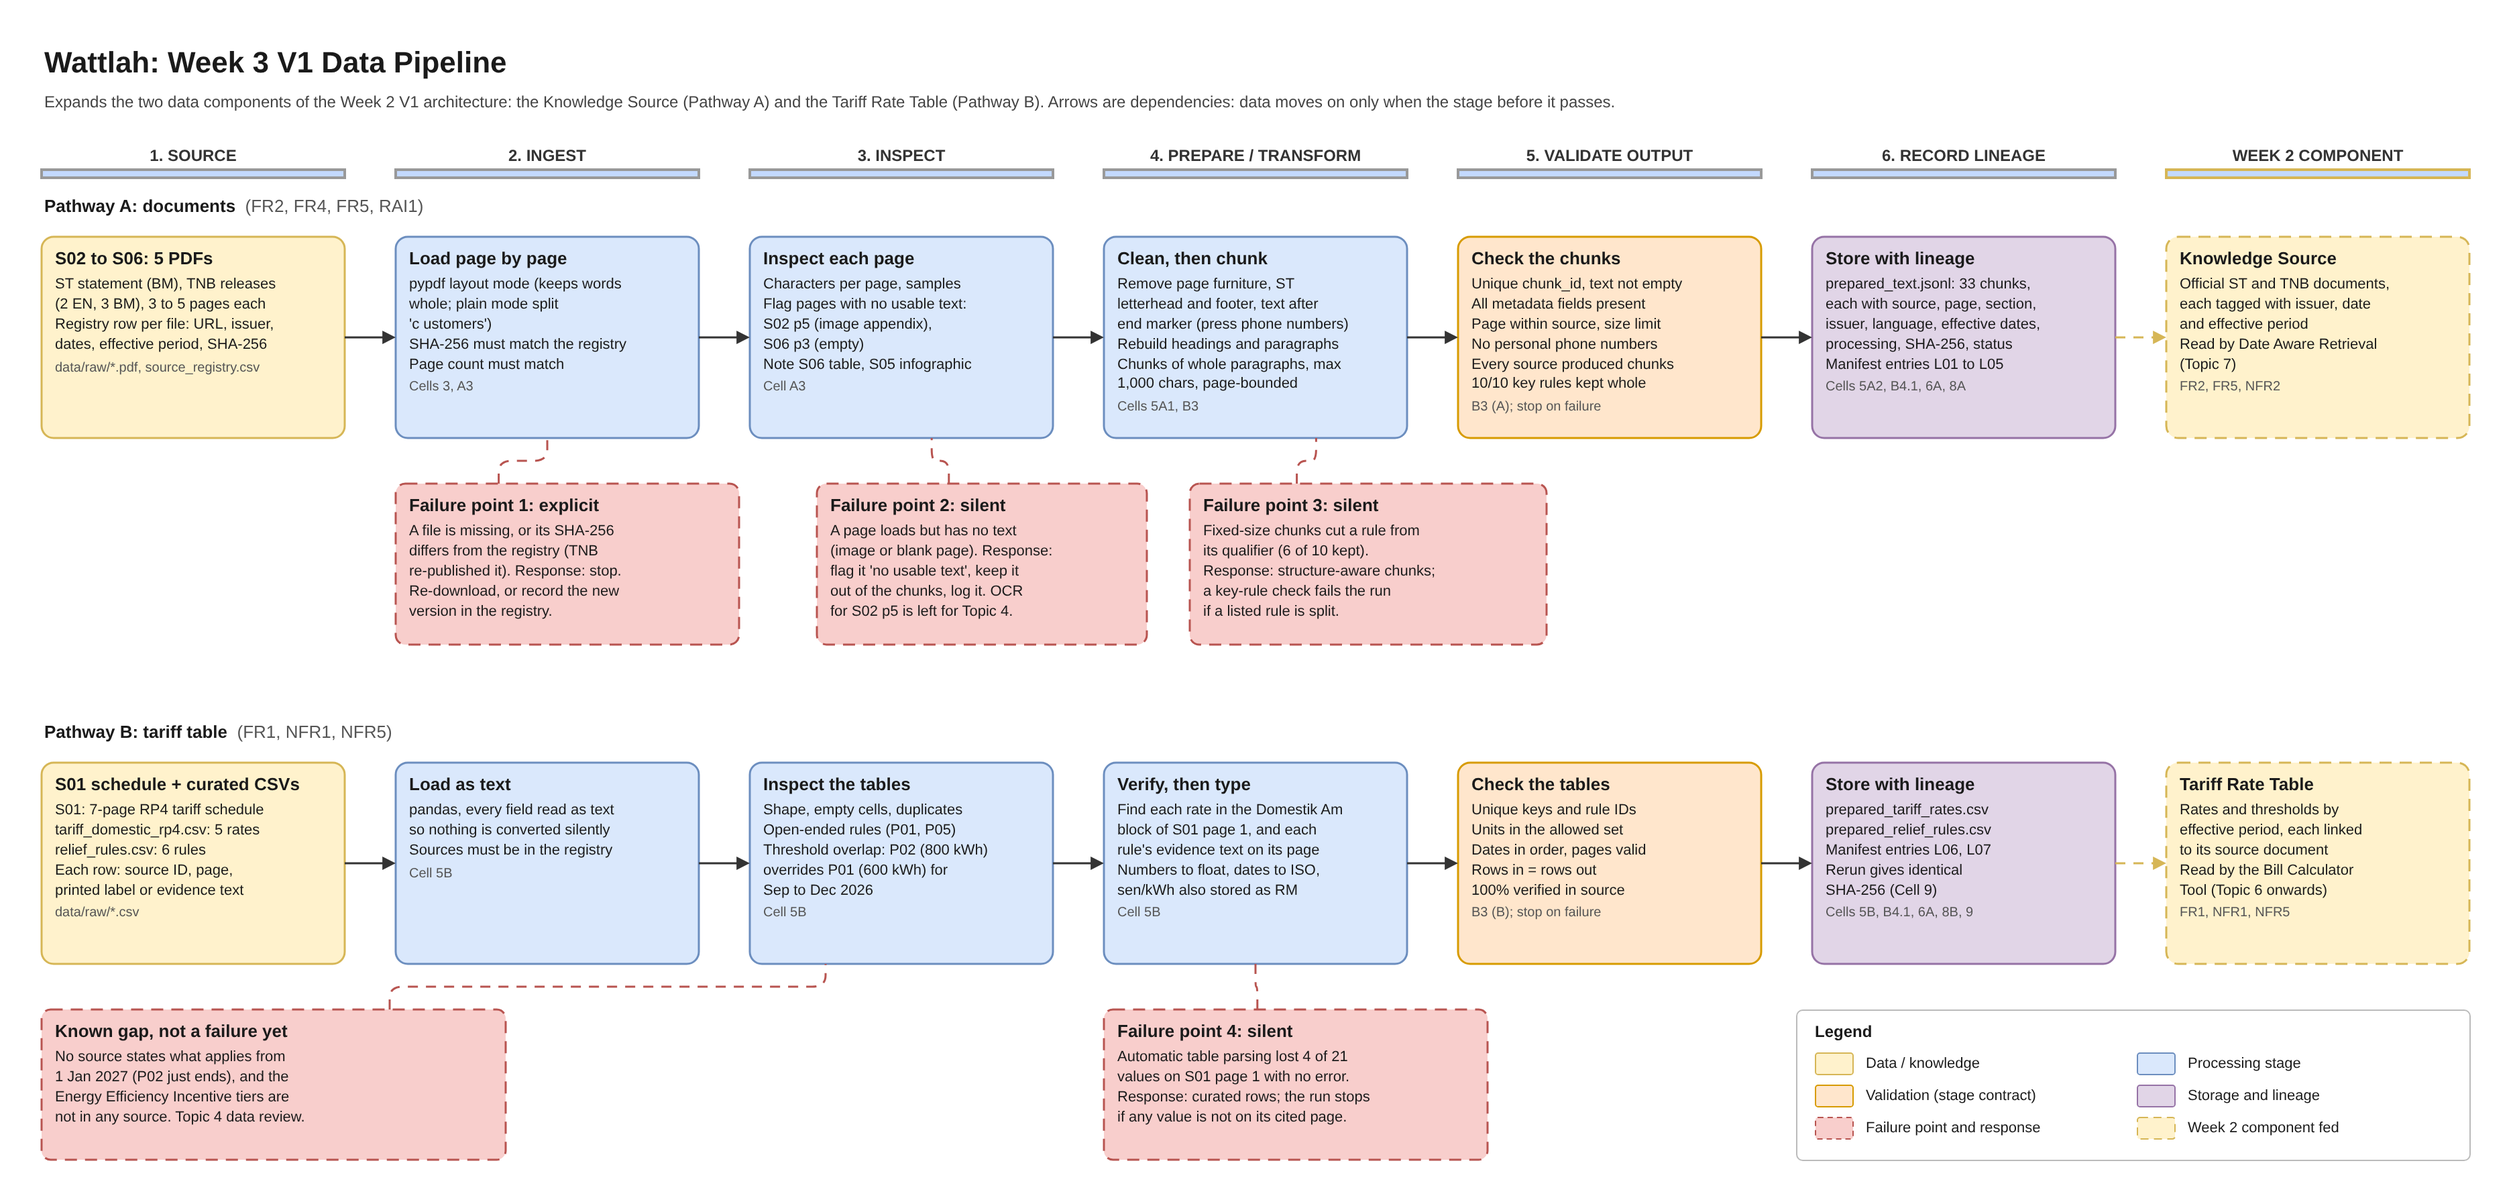
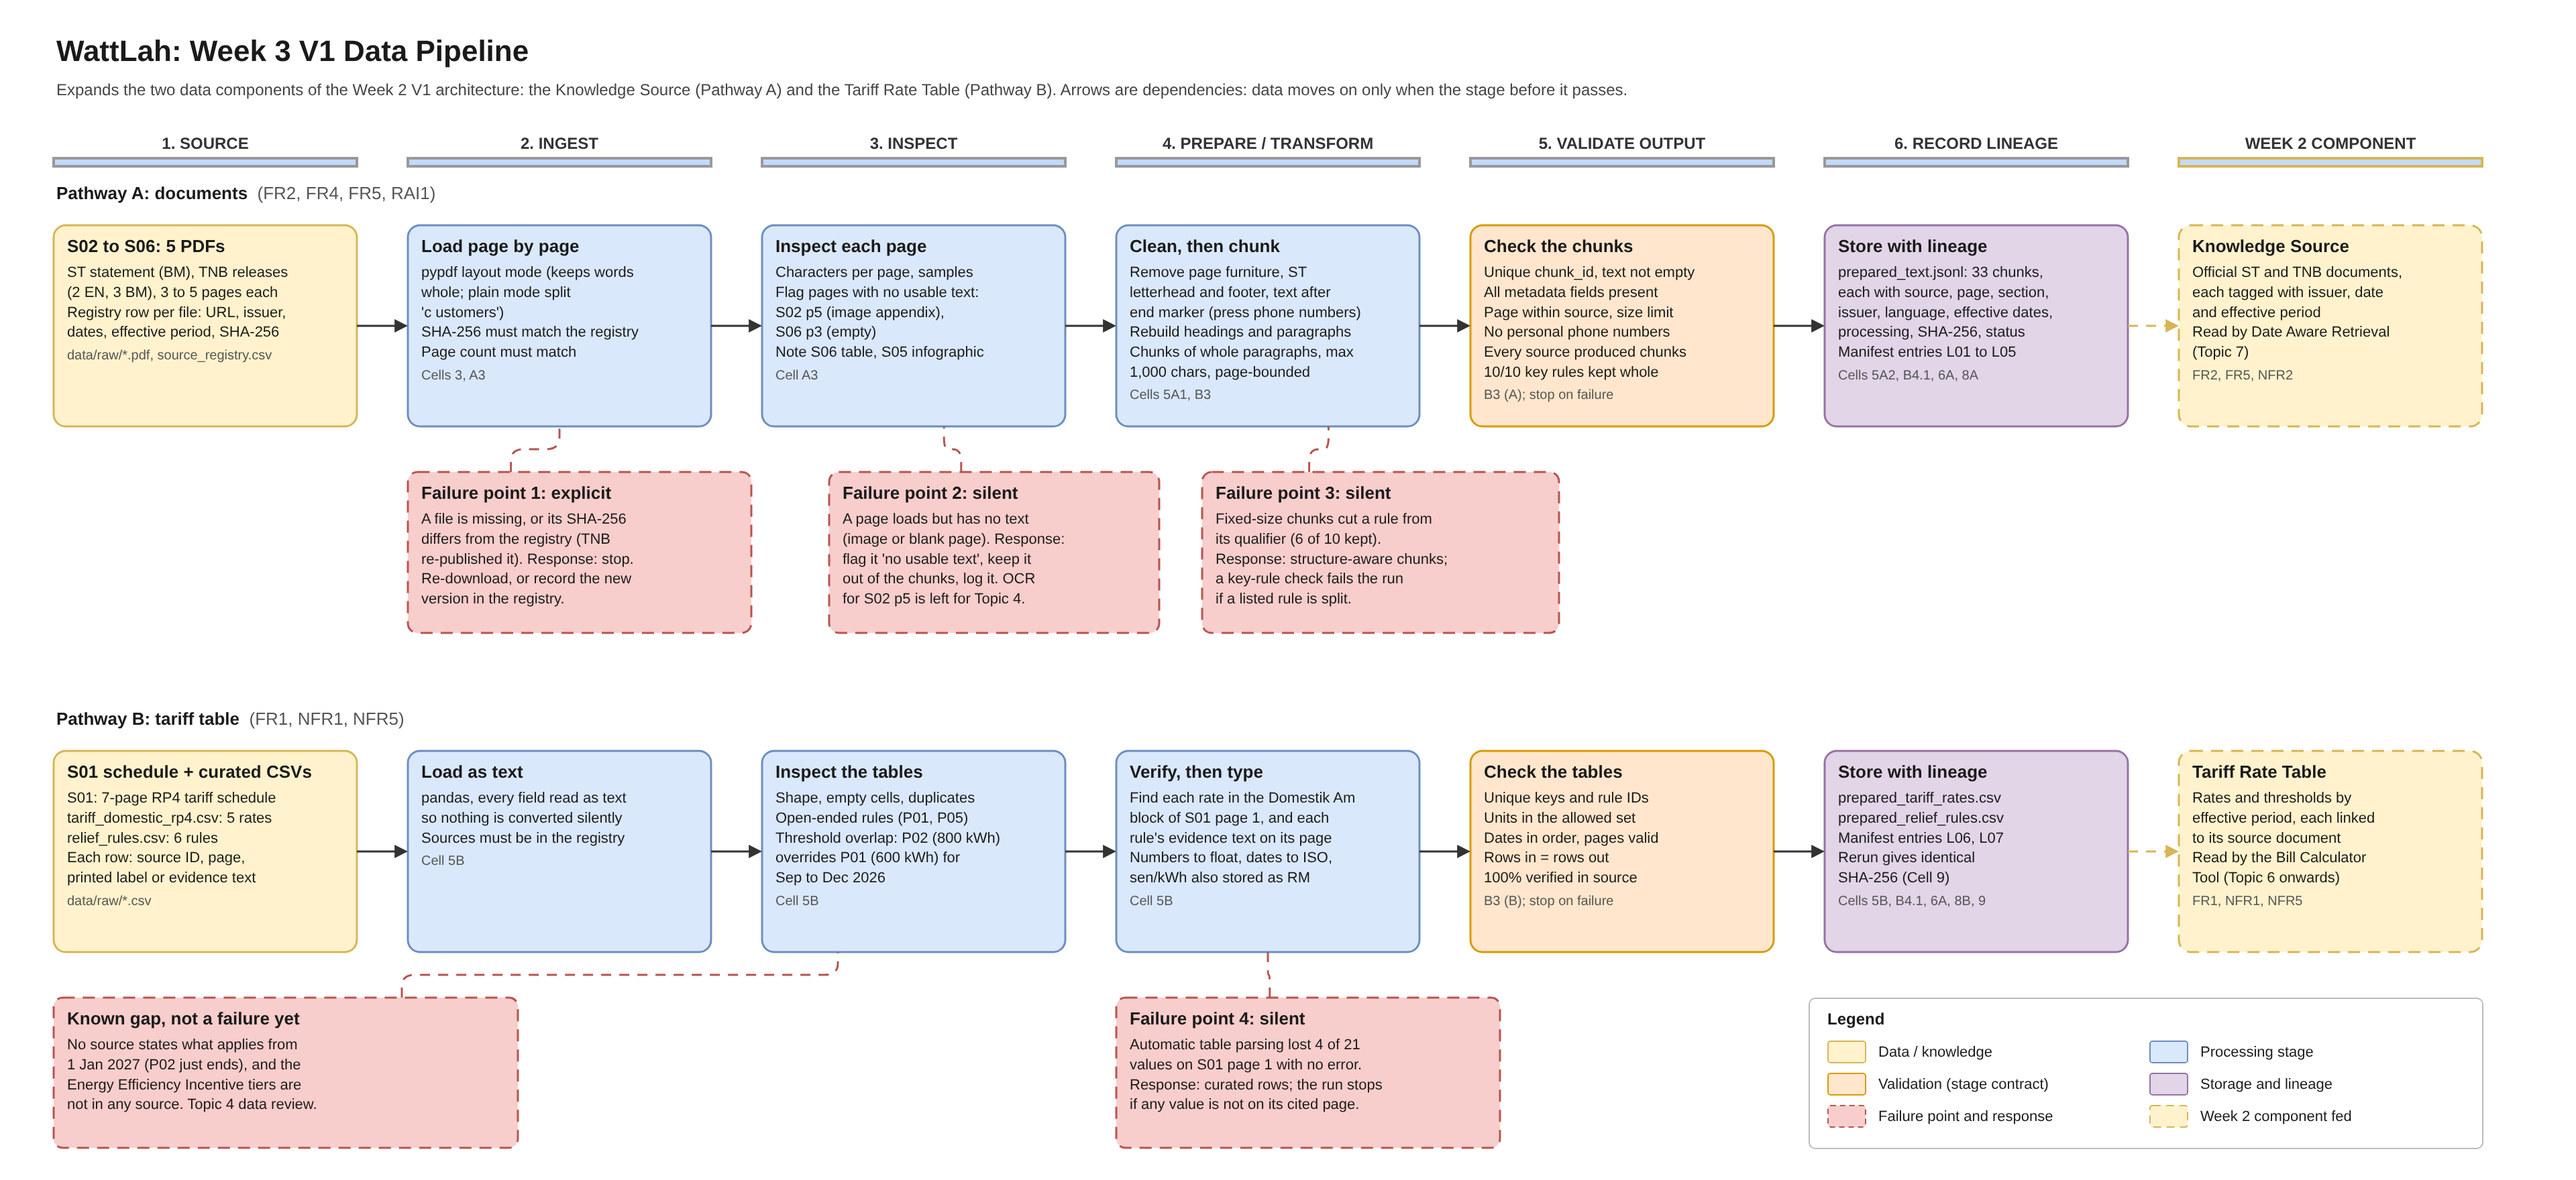
Fix evidence citations: The Star replaces wrong Bernama link, threshold raised on 18 Sep (three days later), WattLah title on Week 3 pipeline diagram

diff --git a/docs/week2_requirements.md b/docs/week2_requirements.md
@@ -10,7 +10,7 @@ Test sets named below (REF-CALC, REF-PAIR, PERIOD, QA, SCOPE, PII) are defined i
 
 | Field | Details |
 |---|---|
-| **Problem Evidence** | 1. **AFA flipped from rebates to surcharges.** Households had nine months of rebates (August 2025 to April 2026), then surcharges from May 2026, reaching +3.67 sen/kWh in September 2026. TNB issued a press release specifically to address bill concerns ([TNB, 15 Sep 2026](https://www.tnb.com.my/assets/press_releases/20260915_23_bi.pdf)).<br>2. **Relief rules change faster than people can follow.** The exemption threshold was 600 kWh on 15 September 2026, then raised to 800 kWh two days later for September to December 2026, credited on October bills. What applies from 1 January 2027 has not been decided ([The Edge, 12 Oct 2026](https://theedgemalaysia.com/node/821515)). About 8 million households are covered; those above 800 kWh stay fully exposed to AFA ([Bernama, 2 Oct 2026](https://www.bernama.com/bm/news.php?id=2614501); [The Vibes, 15 Oct 2026](https://www.thevibes.com/articles/news/128374/global-fuel-shock-drives-electricity-costs-but-8-million-malaysian-households-remain-protected-dpm-ii)).<br>**What this shows:** a bill can change for three separate reasons in the same month (usage, the AFA rate, or a threshold), and the information needed to tell them apart is spread across tariff schedules, press releases and the bill itself. |
+| **Problem Evidence** | 1. **AFA flipped from rebates to surcharges.** Households had nine months of rebates (August 2025 to April 2026), then surcharges from May 2026, reaching +3.67 sen/kWh in September 2026. TNB issued a press release specifically to address bill concerns ([TNB, 15 Sep 2026](https://www.tnb.com.my/assets/press_releases/20260915_23_bi.pdf)).<br>2. **Relief rules change faster than people can follow.** The exemption threshold was 600 kWh on 15 September 2026, then raised to 800 kWh three days later, on 18 September, for September to December 2026, credited on October bills. What applies from 1 January 2027 has not been decided ([The Edge, 12 Oct 2026](https://theedgemalaysia.com/node/821515)). About 8 million households are covered; those above 800 kWh stay fully exposed to AFA ([The Star, 19 Nov 2026](https://www.thestar.com.my/news/nation/2026/11/19/power-bills-feel-the-heat-of-global-crises-says-fadillah); [The Vibes, 15 Oct 2026](https://www.thevibes.com/articles/news/128374/global-fuel-shock-drives-electricity-costs-but-8-million-malaysian-households-remain-protected-dpm-ii)).<br>**What this shows:** a bill can change for three separate reasons in the same month (usage, the AFA rate, or a threshold), and the information needed to tell them apart is spread across tariff schedules, press releases and the bill itself. |
 | **Existing Approaches** | 1. **TNB itemised bill (since July 2025):** lists every charge, but does not explain why the total changed or answer follow up questions ([Malay Mail, 1 Jul 2025](https://www.malaymail.com/news/malaysia/2025/07/01/new-tnb-itemised-electricity-bills-will-help-consumers-better-understand-manage-energy-use/182364)).<br>2. **Third party bill calculators:** compute an estimate, but the user must look up the month's AFA rate, ToU is excluded and nothing is explained ([Paul Tan TNB Bill Calculator](https://paultan.org/tnb-calculator/)).<br>3. **RAG chatbot for PLN complaints (Putro et al., 2025):** shows retrieval in a local language works for a utility, but is grounded in complaint records rather than tariff rules, and its BLEU and ROUGE evaluation cannot catch a wrong amount ([Jurnal Infomedia](https://e-jurnal.pnl.ac.id/infomedia/article/view/7169)).<br>4. **General purpose AI assistants:** explain fluently, but have a fixed knowledge cutoff (Claude reported about June 2026 in our Week 1 lab, before the September threshold change) and compute numbers inside the model with no check. |
 | **Project / Engineering Gap** | Each approach covers one part. Bills itemise but do not explain, calculators compute but do not explain, chatbots explain but go out of date and can get figures wrong. No accessible tool combines (1) retrieval over official tariff documents filtered by billing period, (2) verified arithmetic, and (3) plain BM and English explanations of month to month bill changes. This is a practical engineering gap, not a claim of scientific novelty. |
 | **Objective O1** | To design a bilingual (BM and English), document grounded assistant that explains Peninsular Malaysia domestic electricity bills using official tariff documents tagged with their effective dates. |
@@ -21,8 +21,7 @@ Test sets named below (REF-CALC, REF-PAIR, PERIOD, QA, SCOPE, PII) are defined i
 | **Information / Knowledge Domain** | Domestic electricity tariff for Peninsular Malaysia under the RP4 tariff schedule (from 1 July 2025): energy, capacity, network and retail charges, monthly AFA rates, the Energy Efficiency Incentive (EEI), the Renewable Energy Fund levy (KWTBB), temporary relief thresholds, service tax on domestic electricity, and the current bill format. Official sources only: Suruhanjaya Tenaga and TNB, including the bill calculation method TNB publishes on myTNB. |
 | **Operating Context** | Mobile friendly web chat, used at home when a new bill arrives. Short sessions, no login or TNB account link. Users type the billing period dates and kWh from their bill. V1 is a course prototype, not a public service. |
 | **Important Constraints** | - Solo developer, one semester.<br>- Low or zero budget: free or low cost model service tiers.<br>- Public documents only; no access to TNB customer systems or data.<br>- AFA changes every month and relief rules change at short notice, so sources must carry effective dates.<br>- A meter reading period rarely matches a calendar month, and relief can be credited on a later bill. Usage, thresholds and AFA rates are split across calendar months by days, following the calculation method TNB publishes, not assumed.<br>- Bills carry name, address and account number, which fall under the PDPA.<br>- Source files (PDFs and myTNB data files) are not redistributed; the repo keeps a source list with hashes only.<br>- Must not imply any affiliation with TNB. |
-| **Explicit Out of Scope Tasks** | - Time of Use (ToU) tariff<br>- Sabah (SESB) and Sarawak (SEB) customers<br>- Commercial, industrial and agricultural tariffs<br>- Solar, net metering (NEM) and self consumption schemes<br>- Billing months before July 2025 (pre RP4)<br>- Bill photo or PDF upload (deferred to V2)<br>- Billing disputes, meter faults, disconnection and account matters (referred to official TNB channels)<br>- Forecasting future AFA rates or future bills, including bills that need an AFA rate not yet declared (TNB's projection is shown only as a forecast)
-- Billing periods shorter than 28 days, because the service tax rule for them is not fully specified in the sources<br>- Legal, financial or energy saving investment advice |
+| **Explicit Out of Scope Tasks** | - Time of Use (ToU) tariff<br>- Sabah (SESB) and Sarawak (SEB) customers<br>- Commercial, industrial and agricultural tariffs<br>- Solar, net metering (NEM) and self consumption schemes<br>- Billing months before July 2025 (pre RP4)<br>- Bill photo or PDF upload (deferred to V2)<br>- Billing disputes, meter faults, disconnection and account matters (referred to official TNB channels)<br>- Forecasting future AFA rates or future bills, including bills that need an AFA rate not yet declared (TNB's projection is shown only as a forecast)<br>- Billing periods shorter than 28 days, because the service tax rule for them is not fully specified in the sources<br>- Legal, financial or energy saving investment advice |
 | **Evaluation Focus** | Does WattLah give bill figures that match the official tariff to the sen, explain them with correct, cited sources for the right billing month, at comparable quality in BM and English, while refusing out of scope requests and protecting personal data, within an acceptable response time? |
 
 **Changes from Week 1:** O2 now names scope control as a guardrail, and O3 adds scope handling, so that RAI5 traces to an objective. V1 input is limited to typed values; bill upload moves to V2 (see ADR5 in [week2_architecture_decisions.md](week2_architecture_decisions.md)).

diff --git a/docs/week1_project_scope.md b/docs/week1_project_scope.md
@@ -13,9 +13,10 @@
 **Evidence 1:** AFA flipped from rebates to surcharges in 2026. Customers received rebates for nine months (August 2025 to April 2026); surcharges began in May 2026 after generation costs rose following the West Asia crisis, reaching +3.67 sen/kWh in September 2026. TNB issued a press release specifically to address bill concerns.
 Source: TNB press release, "Addressing Electricity Bill Concerns: AFA Mechanism Ensures Transparency and Fair Cost Sharing Since July 2025", 15 September 2026. https://www.tnb.com.my/assets/press_releases/20260915_23_bi.pdf
 
-**Evidence 2:** The rules move faster than people can follow. On 15 September 2026, TNB stated the exemption threshold as 600 kWh. Two days later, the government raised it to 800 kWh for September to December 2026, with credits applied retroactively on October bills. By 15 October 2026, about 8 million Peninsular households were covered, while households above 800 kWh remain fully exposed to AFA. National media ran explainers asking why bills were suddenly higher.
+**Evidence 2:** The rules move faster than people can follow. On 15 September 2026, TNB stated the exemption threshold as 600 kWh. Three days later, on 18 September, the government raised it to 800 kWh for September to December 2026, with credits applied retroactively on October bills. By 15 October 2026, about 8 million Peninsular households were covered, while households above 800 kWh remain fully exposed to AFA. National media ran explainers asking why bills were suddenly higher.
 Sources:
-- Bernama, TNB bill adjustment for users up to 800 kWh, 2 October 2026. https://www.bernama.com/bm/news.php?id=2614501
+- TNB press release, "Aras perlindungan bil elektrik dinaikkan kepada 800kWj", 18 September 2026. https://www.tnb.com.my/assets/press_releases/20260918_24_bm.pdf
+- The Star, "Power bills feel the heat of global crises, says Fadillah", 19 November 2026. https://www.thestar.com.my/news/nation/2026/11/19/power-bills-feel-the-heat-of-global-crises-says-fadillah
 - The Vibes, DPM on 8 million households protected, 15 October 2026. https://www.thevibes.com/articles/news/128374/global-fuel-shock-drives-electricity-costs-but-8-million-malaysian-households-remain-protected-dpm-ii
 - Malay Mail, "Why is my TNB electricity bill suddenly high? The AFA fuel surcharge explained", 21 July 2026. https://www.malaymail.com/news/malaysia/2026/07/21/why-is-my-tnb-electricity-bill-suddenly-high-the-afa-fuel-surcharge-explained/227856
 

diff --git a/README.md b/README.md
@@ -15,7 +15,7 @@ General chatbots go out of date and can get the arithmetic wrong, while calculat
 ## Evidence of the Problem
 
 - **AFA flipped from rebates to surcharges in 2026.** Customers had nine months of rebates, then surcharges from May 2026 after the West Asia crisis pushed up fuel costs, reaching +3.67 sen/kWh in September 2026. TNB issued a press release to address bill concerns ([TNB, 15 Sep 2026](https://www.tnb.com.my/assets/press_releases/20260915_23_bi.pdf)).
-- **The relief rules move faster than people can follow.** The exemption threshold was 600 kWh on 15 September 2026, then raised to 800 kWh two days later for September to December 2026 ([Bernama, 2 Oct 2026](https://www.bernama.com/bm/news.php?id=2614501)). About 8 million households are now covered, while those above the threshold stay exposed ([The Vibes, 15 Oct 2026](https://www.thevibes.com/articles/news/128374/global-fuel-shock-drives-electricity-costs-but-8-million-malaysian-households-remain-protected-dpm-ii)).
+- **The relief rules move faster than people can follow.** The exemption threshold was 600 kWh on 15 September 2026, then raised to 800 kWh three days later, on 18 September, for September to December 2026 ([TNB, 18 Sep 2026](https://www.tnb.com.my/assets/press_releases/20260918_24_bm.pdf); [The Star, 19 Nov 2026](https://www.thestar.com.my/news/nation/2026/11/19/power-bills-feel-the-heat-of-global-crises-says-fadillah)). About 8 million households are now covered, while those above the threshold stay exposed ([The Vibes, 15 Oct 2026](https://www.thevibes.com/articles/news/128374/global-fuel-shock-drives-electricity-costs-but-8-million-malaysian-households-remain-protected-dpm-ii)).
 
 ## Initial Related Work / Existing Approaches
 
